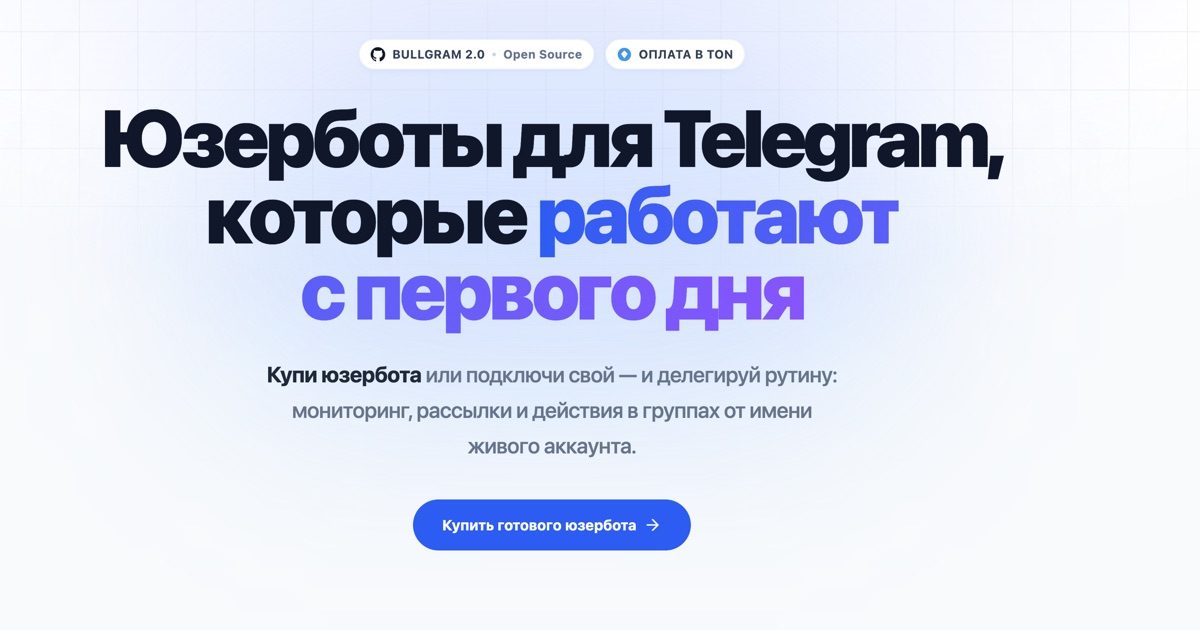
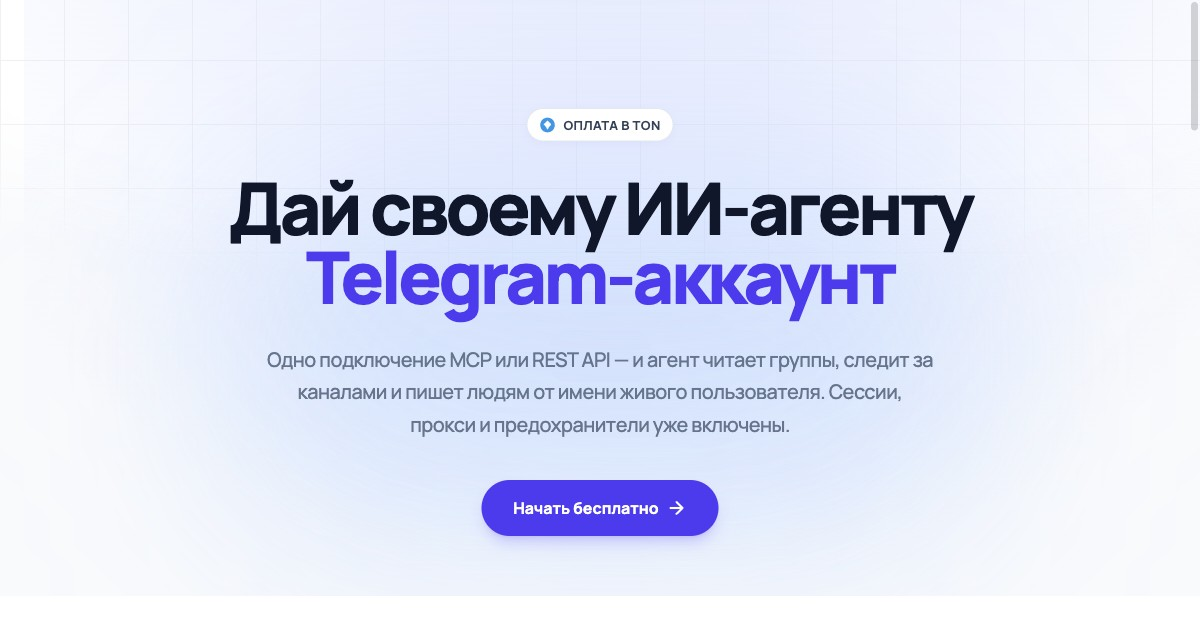
fix(site): правки по ревью волны репозиционирования + og-image из нового героя
Критик (REVISE-THEN-ACCEPT) + код-ревью (proceed, 1 P2):
- Critical: текст карты «Серой зоны» на амбер-фоне не проходил AA (3.42:1) — тело
  на text-ink-body, амбер остался на заголовке и иконке (severity тоже спадает)
- Major: «Telegram-аккаунт» на 390px рвался через дефис — базовый размер H1 → text-4xl
- Major: кнопка Bullgram MCP залита (фокус секции), REST API остался ghost;
  цвет — семантика (bg-surface-card/text-ink-strong), ratchet не тронут
- Major: комментарий код-карточки укоротен — на 390px больше не обрезается молча
- Minor: комментарии кода slate-400 (7.9:1), eyebrow тёмной секции indigo-300
  (единый акцент вместо одиночного sky-400), тарифы rounded-2xl + бейдж «Рекомендуем»,
  фичи font-medium, «тг-аккаунт» → «Telegram-аккаунт», dogfood-строка text-sm
- Код-ревью P2: og-image.jpg перегенерирован из нового героя (1200×630)
- Код-ревью P3: провенанс-комментарий для 9 710 restored; «десятки каналов» убрано
  (не верифицировано); «Разбор с n8n-JSON» → «Разбор n8n-флоу»
- Ссылка /blog/ проверена curl'ом — nginx отдаёт реальный блог, не редирект
  (замечание критика снято)
- AGENTS.md: решение владельца 2026-09-21 о герое для аудитории строителей
  агентов — supersedes правило 2026-09-12 (без feature-перечисления)

diff --git a/site-v2/src/pages/HomePage.jsx b/site-v2/src/pages/HomePage.jsx
@@ -28,14 +28,14 @@ const plans = [
   },
   {
     id: 'pro',
-    label: 'Полный доступ',
+    label: 'Рекомендуем',
     title: 'Pro',
     price: '10 TON',
     period: 'за 365 дней доступа',
     description: 'Год полного режима для постоянных автоматизаций.',
     highlighted: true,
     features: [
-      'готовый тг-аккаунт в комплекте',
+      'готовый Telegram-аккаунт в комплекте',
       'безлимит по API и MCP',
       'сколько угодно юзерботов и ботов'
     ]
@@ -200,8 +200,8 @@ function ProCheckoutButton({ profilePlan, proEndsAt, pendingOrder, user, accessT
 
 function PlanCard({ plan, children }) {
   const cardClass = plan.highlighted
-    ? 'relative flex flex-col rounded-lg border-2 border-action-primary bg-surface-card p-6 shadow-xl shadow-indigo-600/10'
-    : 'relative flex flex-col rounded-lg border border-border-default bg-surface-card p-6 shadow-sm';
+    ? 'relative flex flex-col rounded-2xl border-2 border-action-primary bg-surface-card p-6 shadow-xl shadow-indigo-600/10'
+    : 'relative flex flex-col rounded-2xl border border-border-default bg-surface-card p-6 shadow-sm';
 
   return (
     <article className={cardClass}>
@@ -226,7 +226,7 @@ function PlanCard({ plan, children }) {
 
       <ul className="mb-8 space-y-3">
         {plan.features.map((feature) => (
-          <li key={feature} className="flex gap-3 text-sm font-semibold leading-6 text-ink-body">
+          <li key={feature} className="flex gap-3 text-sm font-medium leading-6 text-ink-body">
             <CheckCircle2 className="mt-0.5 h-5 w-5 shrink-0 text-feedback-success-text" strokeWidth={2.5} aria-hidden="true" />
             <span>{feature}</span>
           </li>
@@ -255,11 +255,11 @@ function McpExampleCard() {
   return (
     <div className="overflow-hidden rounded-2xl bg-slate-900 shadow-2xl shadow-black/40 ring-1 ring-white/10">
       <div className="flex items-center border-b border-white/10 px-4 py-3">
-        <span className="font-mono text-xs font-semibold text-slate-500">mcp · n8n · агент</span>
+        <span className="font-mono text-xs font-semibold text-slate-400">mcp · n8n · агент</span>
       </div>
       <pre className="overflow-x-auto p-5 font-mono text-xs leading-6 text-slate-200 sm:p-6">
         <code>
-          <span className="text-slate-500">{'// MCP · сообщения группы за последние сутки'}</span>
+          <span className="text-slate-400">{'// MCP · сообщения группы за последние сутки'}</span>
           {'\n'}
           <span className="text-indigo-300">bullgram_userbot_messages</span>
           {'({\n  userbot_id: '}
@@ -271,7 +271,7 @@ function McpExampleCard() {
           {',\n  limit:      '}
           <span className="text-slate-200">200</span>
           {'\n})\n\n'}
-          <span className="text-slate-500">{'// → текст, автор, время — готовый вход для n8n или агента'}</span>
+          <span className="text-slate-400">{'// → текст, автор, время — вход для n8n'}</span>
         </code>
       </pre>
     </div>
@@ -312,7 +312,7 @@ export function HomePage() {
           </span>
         </div>
 
-        <h1 className="mx-auto max-w-4xl text-balance text-5xl sm:text-6xl lg:text-7xl font-black tracking-tighter text-ink-strong leading-[0.95] mb-6 sm:mb-8">
+        <h1 className="mx-auto max-w-4xl text-balance text-4xl sm:text-6xl lg:text-7xl font-black tracking-tighter text-ink-strong leading-[0.95] mb-6 sm:mb-8">
           Дай своему ИИ-агенту <br className="hidden sm:block" />
           <span className="text-action-primary">Telegram-аккаунт</span>
         </h1>
@@ -350,7 +350,7 @@ export function HomePage() {
       <section className="bg-slate-950 px-6 py-16 sm:px-10 sm:py-20 lg:px-16">
         <div className="mx-auto grid w-full max-w-6xl items-center gap-10 lg:grid-cols-2 lg:gap-14">
           <div>
-            <div className="text-xs font-semibold uppercase tracking-[0.12em] text-sky-400">MCP и REST API</div>
+            <div className="text-xs font-semibold uppercase tracking-[0.12em] text-indigo-300">MCP и REST API</div>
             <h2 className="mt-3 text-balance text-3xl font-bold tracking-tight text-white sm:text-4xl">
               Живой интерфейс к живым аккаунтам
             </h2>
@@ -371,7 +371,7 @@ export function HomePage() {
               <button
                 type="button"
                 onClick={() => (user ? window.location.assign('/app/mcp') : login('/app/mcp'))}
-                className="inline-flex items-center justify-center gap-2 rounded-full bg-white/10 px-5 py-3 text-sm font-bold text-white ring-1 ring-inset ring-white/20 transition hover:bg-white/15"
+                className="inline-flex items-center justify-center gap-2 rounded-full bg-surface-card px-5 py-3 text-sm font-bold text-ink-strong shadow-lg shadow-black/30 transition hover:bg-surface-subtle"
               >
                 Bullgram MCP
                 <ArrowRight className="h-4 w-4" strokeWidth={2.5} />
@@ -389,7 +389,7 @@ export function HomePage() {
             <AlertTriangle className="mt-0.5 h-6 w-6 shrink-0 text-feedback-warning-text" strokeWidth={2.2} aria-hidden="true" />
             <div>
               <h3 className="text-base font-bold text-feedback-warning-text">Серая зона — говорим прямо</h3>
-              <p className="mt-2 text-pretty text-sm font-medium leading-6 text-feedback-warning-text/80">
+              <p className="mt-2 text-pretty text-sm font-medium leading-6 text-ink-body">
                 Автоматизация личного Telegram-аккаунта официально не благословлена, и агрессивная
                 работа ловит лимиты и баны. Bullgram закрывает инфраструктуру: прокси на каждую сессию,
                 безопасный старт, мониторинг SpamBot. Темп и аккуратность — на тебе: мы не делаем вид,
@@ -471,10 +471,14 @@ export function HomePage() {
         <p className="mt-6 text-pretty text-sm font-medium text-ink-muted">
           Регистрация → подключаешь сессию → первый вызов MCP в тот же день. Оплата в TON, поддержка в Telegram.
         </p>
-        <p className="mx-auto mt-10 max-w-xl text-pretty text-xs font-medium leading-5 text-ink-muted">
-          Мы сами строим на Bullgram: наш крипто-контур ежедневно сводит десятки каналов —{' '}
+        {/* Dogfood-цифра: 9 710 вызовов агента за 30 дней — реальная, из прод-базы
+            (снята 2026-09-18); обновлять при следующем прогоне. Число каналов не
+            называем — не верифицировано. */}
+        <p className="mx-auto mt-10 max-w-xl text-pretty text-sm font-medium leading-5 text-ink-muted">
+          Мы сами строим на Bullgram: наш крипто-контур каждый день делает ИИ-сводки по нашим
+          Telegram-каналам —{' '}
           <span className="font-bold text-ink-strong">9 710 вызовов агента</span> за последние 30 дней.
-          Разбор с n8n-JSON —{' '}
+          Разбор n8n-флоу —{' '}
           <a href="/blog/" className="font-semibold text-action-primary underline decoration-1 underline-offset-2 hover:text-action-primary-hover">
             скоро в блоге
           </a>

diff --git a/AGENTS.md b/AGENTS.md
@@ -107,7 +107,7 @@ Current product focus:
 - `Shop`: act as the main on-site checkout and package funnel
 - `P2P`: keep it a distinct working flow from asset marketplace logic
 - `Trial -> Normal -> Seller`: preserve and strengthen this upgrade path in UI and backend limits
-- site-v2 hero sells ONE outcome: «купил → получил готовое и работающее». Do not enumerate technical features (proxies, API, MCP, infra details) as selling points on the first screen — they confuse non-technical buyers and belong in docs and deeper sections (owner decision 2026-09-12)
+- site-v2 hero sells ONE outcome. Audience + wording decided by owner: since 2026-09-21 the product positioning is infrastructure for AI-agent and n8n builders («Дай своему ИИ-агенту Telegram-аккаунт», RU first, EN later) — for THIS technical audience naming MCP/API/proxies in the hero subline is correct and expected. The earlier 2026-09-12 rule (no technical features on the first screen, consumer framing «купил → получил готовое») applied to the consumer positioning and is superseded; the «one outcome, no feature dump» principle still stands. Autopost/paywall/shop stay OFF the homepage (separate landing later, owner decision 2026-09-21)
 
 If a feature depends on Telegram-specific constraints, explain that directly in the UI. In particular, any screen that offers manual outreach from a userbot should state that making the userbot an admin in a shared group/chat increases the chance of resolving the target and writing to them in private messages.
 
